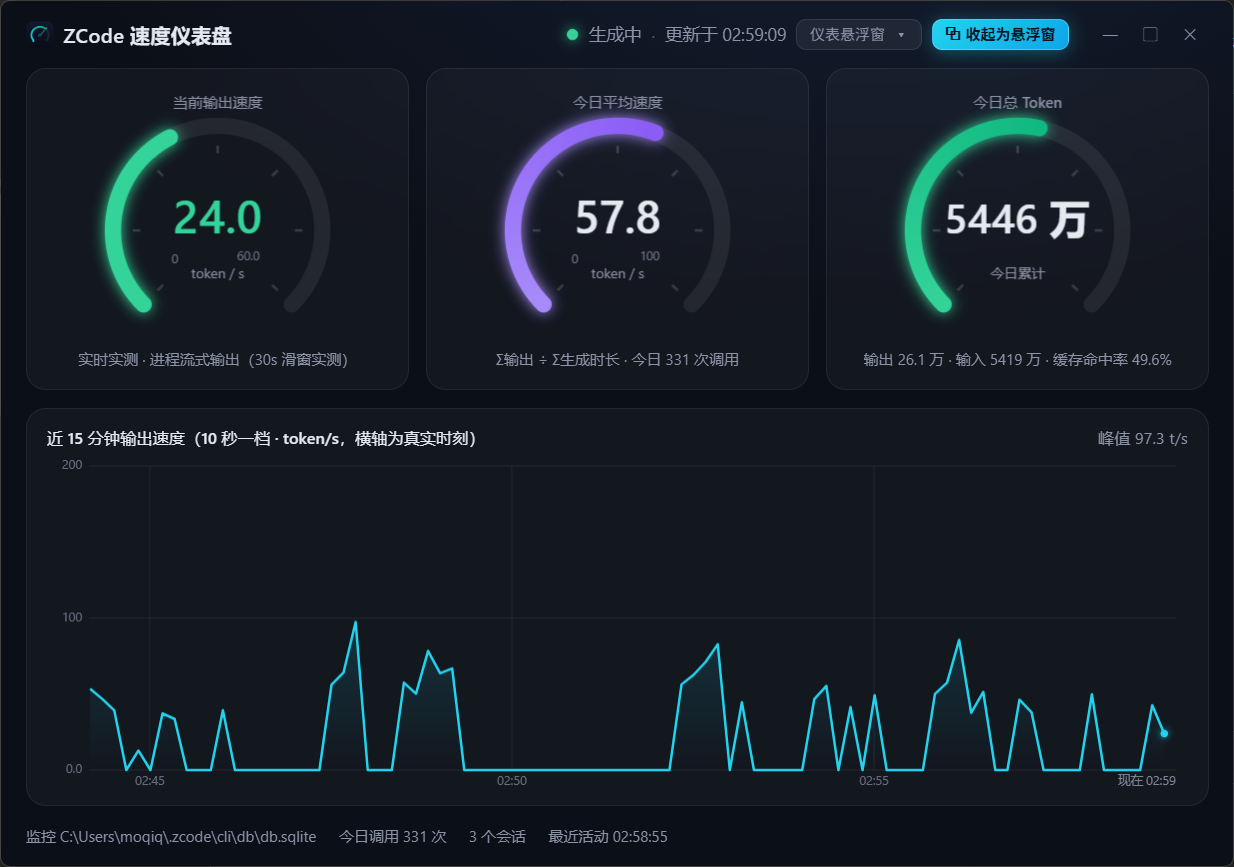
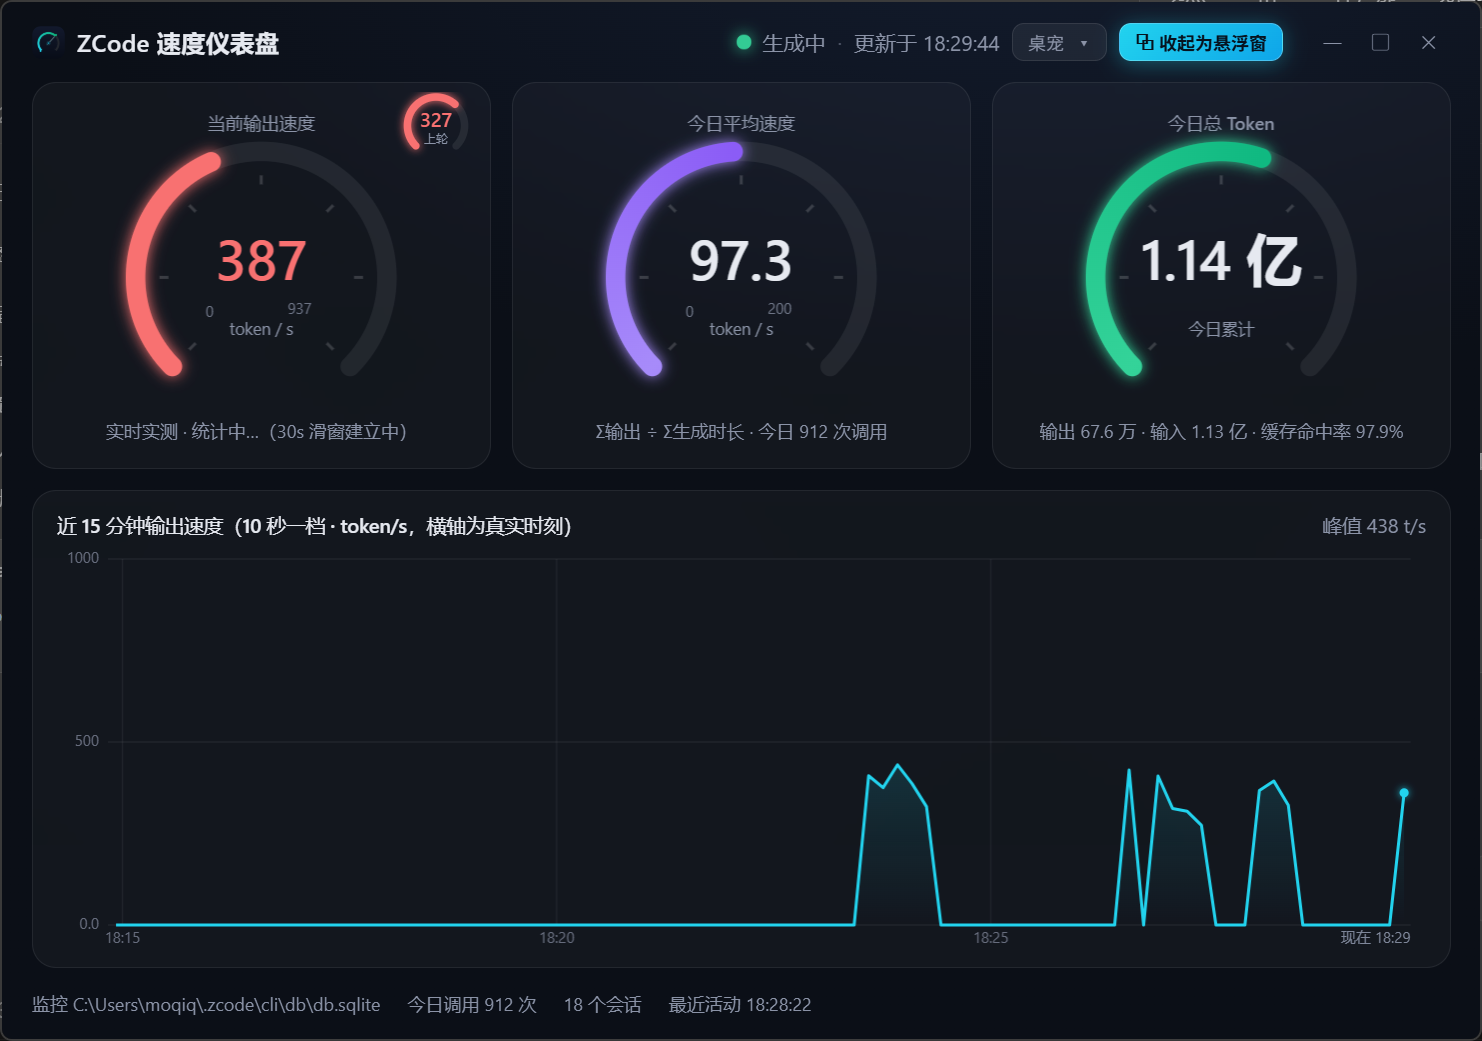
README：主界面与桌宠截图换新
- main-ui.png：换成带"上轮"角标的完整面板（当前速度卡右上角 327 t/s 小环、
  近 15 分钟曲线、状态栏），与当前版本一致
- pet.png：换成悬停两行气泡的桌宠（实时速度 309.8 / 上轮均速 383）
- 表格里桌宠那格的小标题随之改为"悬停气泡：实时速度 / 上轮均速"

迷你仪表截图未换：仍是 116×116 旧版（主环右侧还没有"上轮"小环），
与现在的 140×116 布局不符，待补拍。

diff --git a/README.md b/README.md
@@ -17,7 +17,7 @@
 
 两种悬浮窗形态（整块可拖动、右键菜单恢复/退出）：
 
-| 桌宠（头顶气泡显示实时速度） | 迷你仪表（弧线随速度分档变色） |
+| 桌宠（悬停气泡：实时速度 / 上轮均速） | 迷你仪表（弧线随速度分档变色） |
 |---|---|
 | ![桌宠](docs/images/pet.png) | ![迷你仪表](docs/images/mini-gauge.png) |
 
